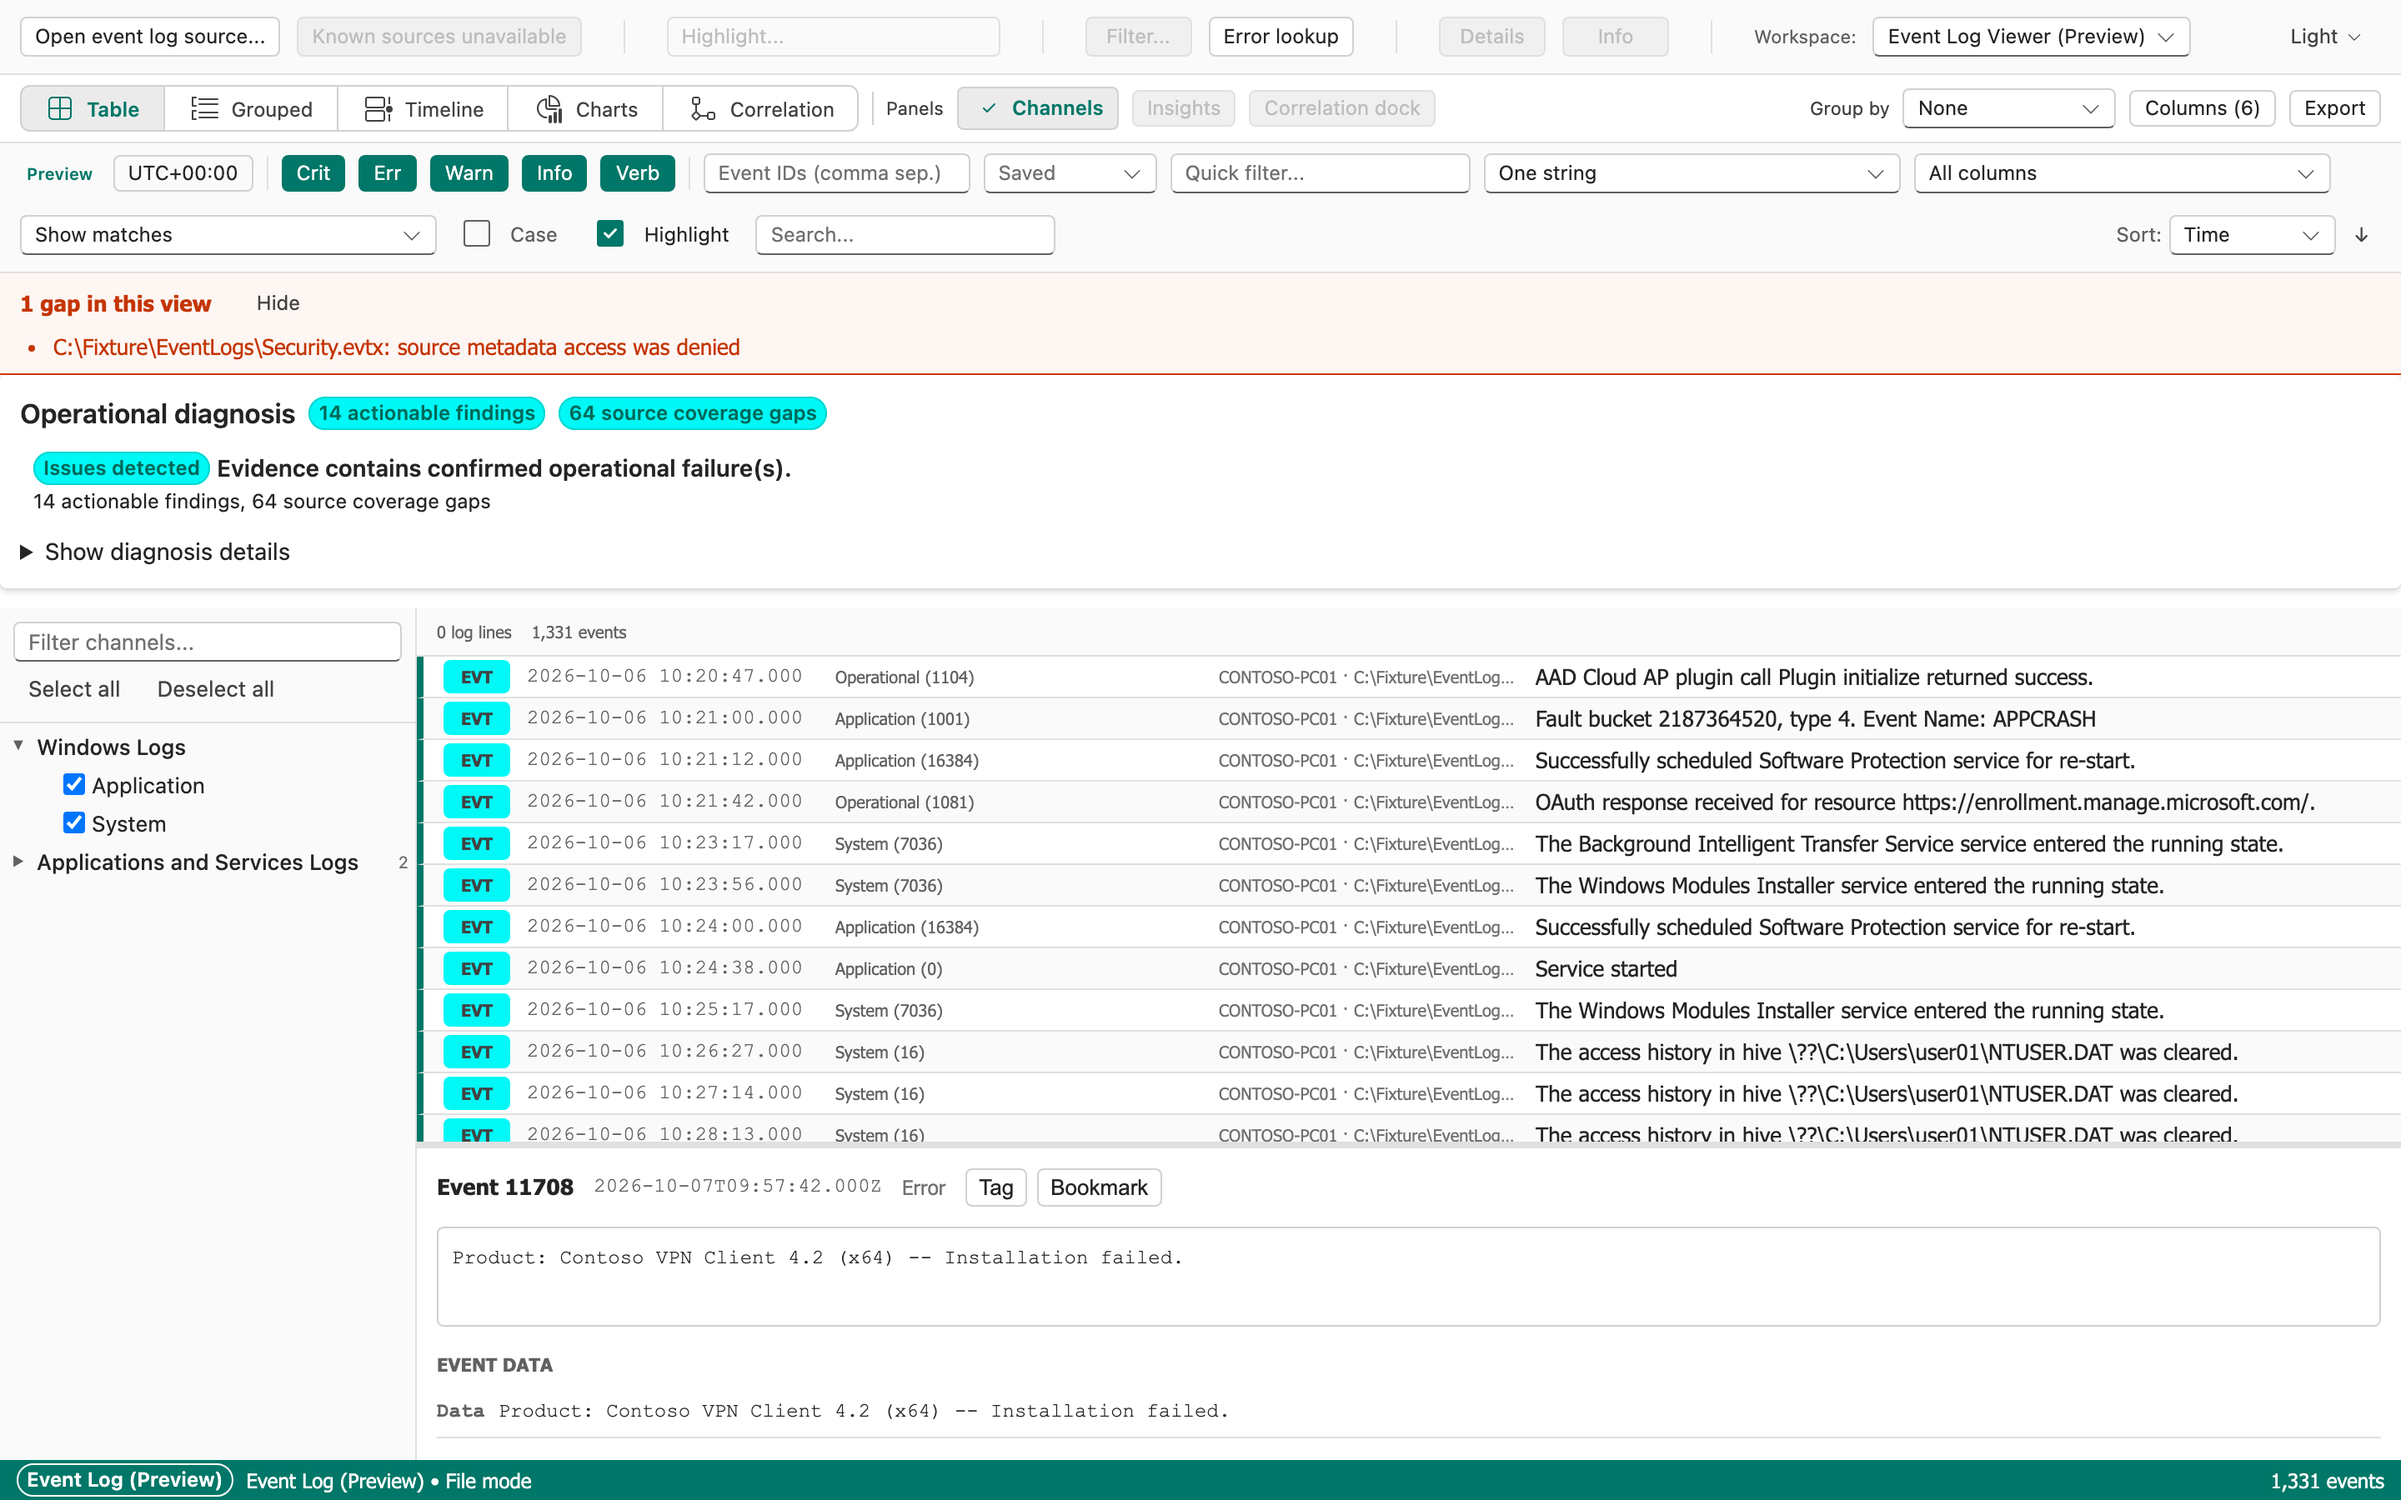
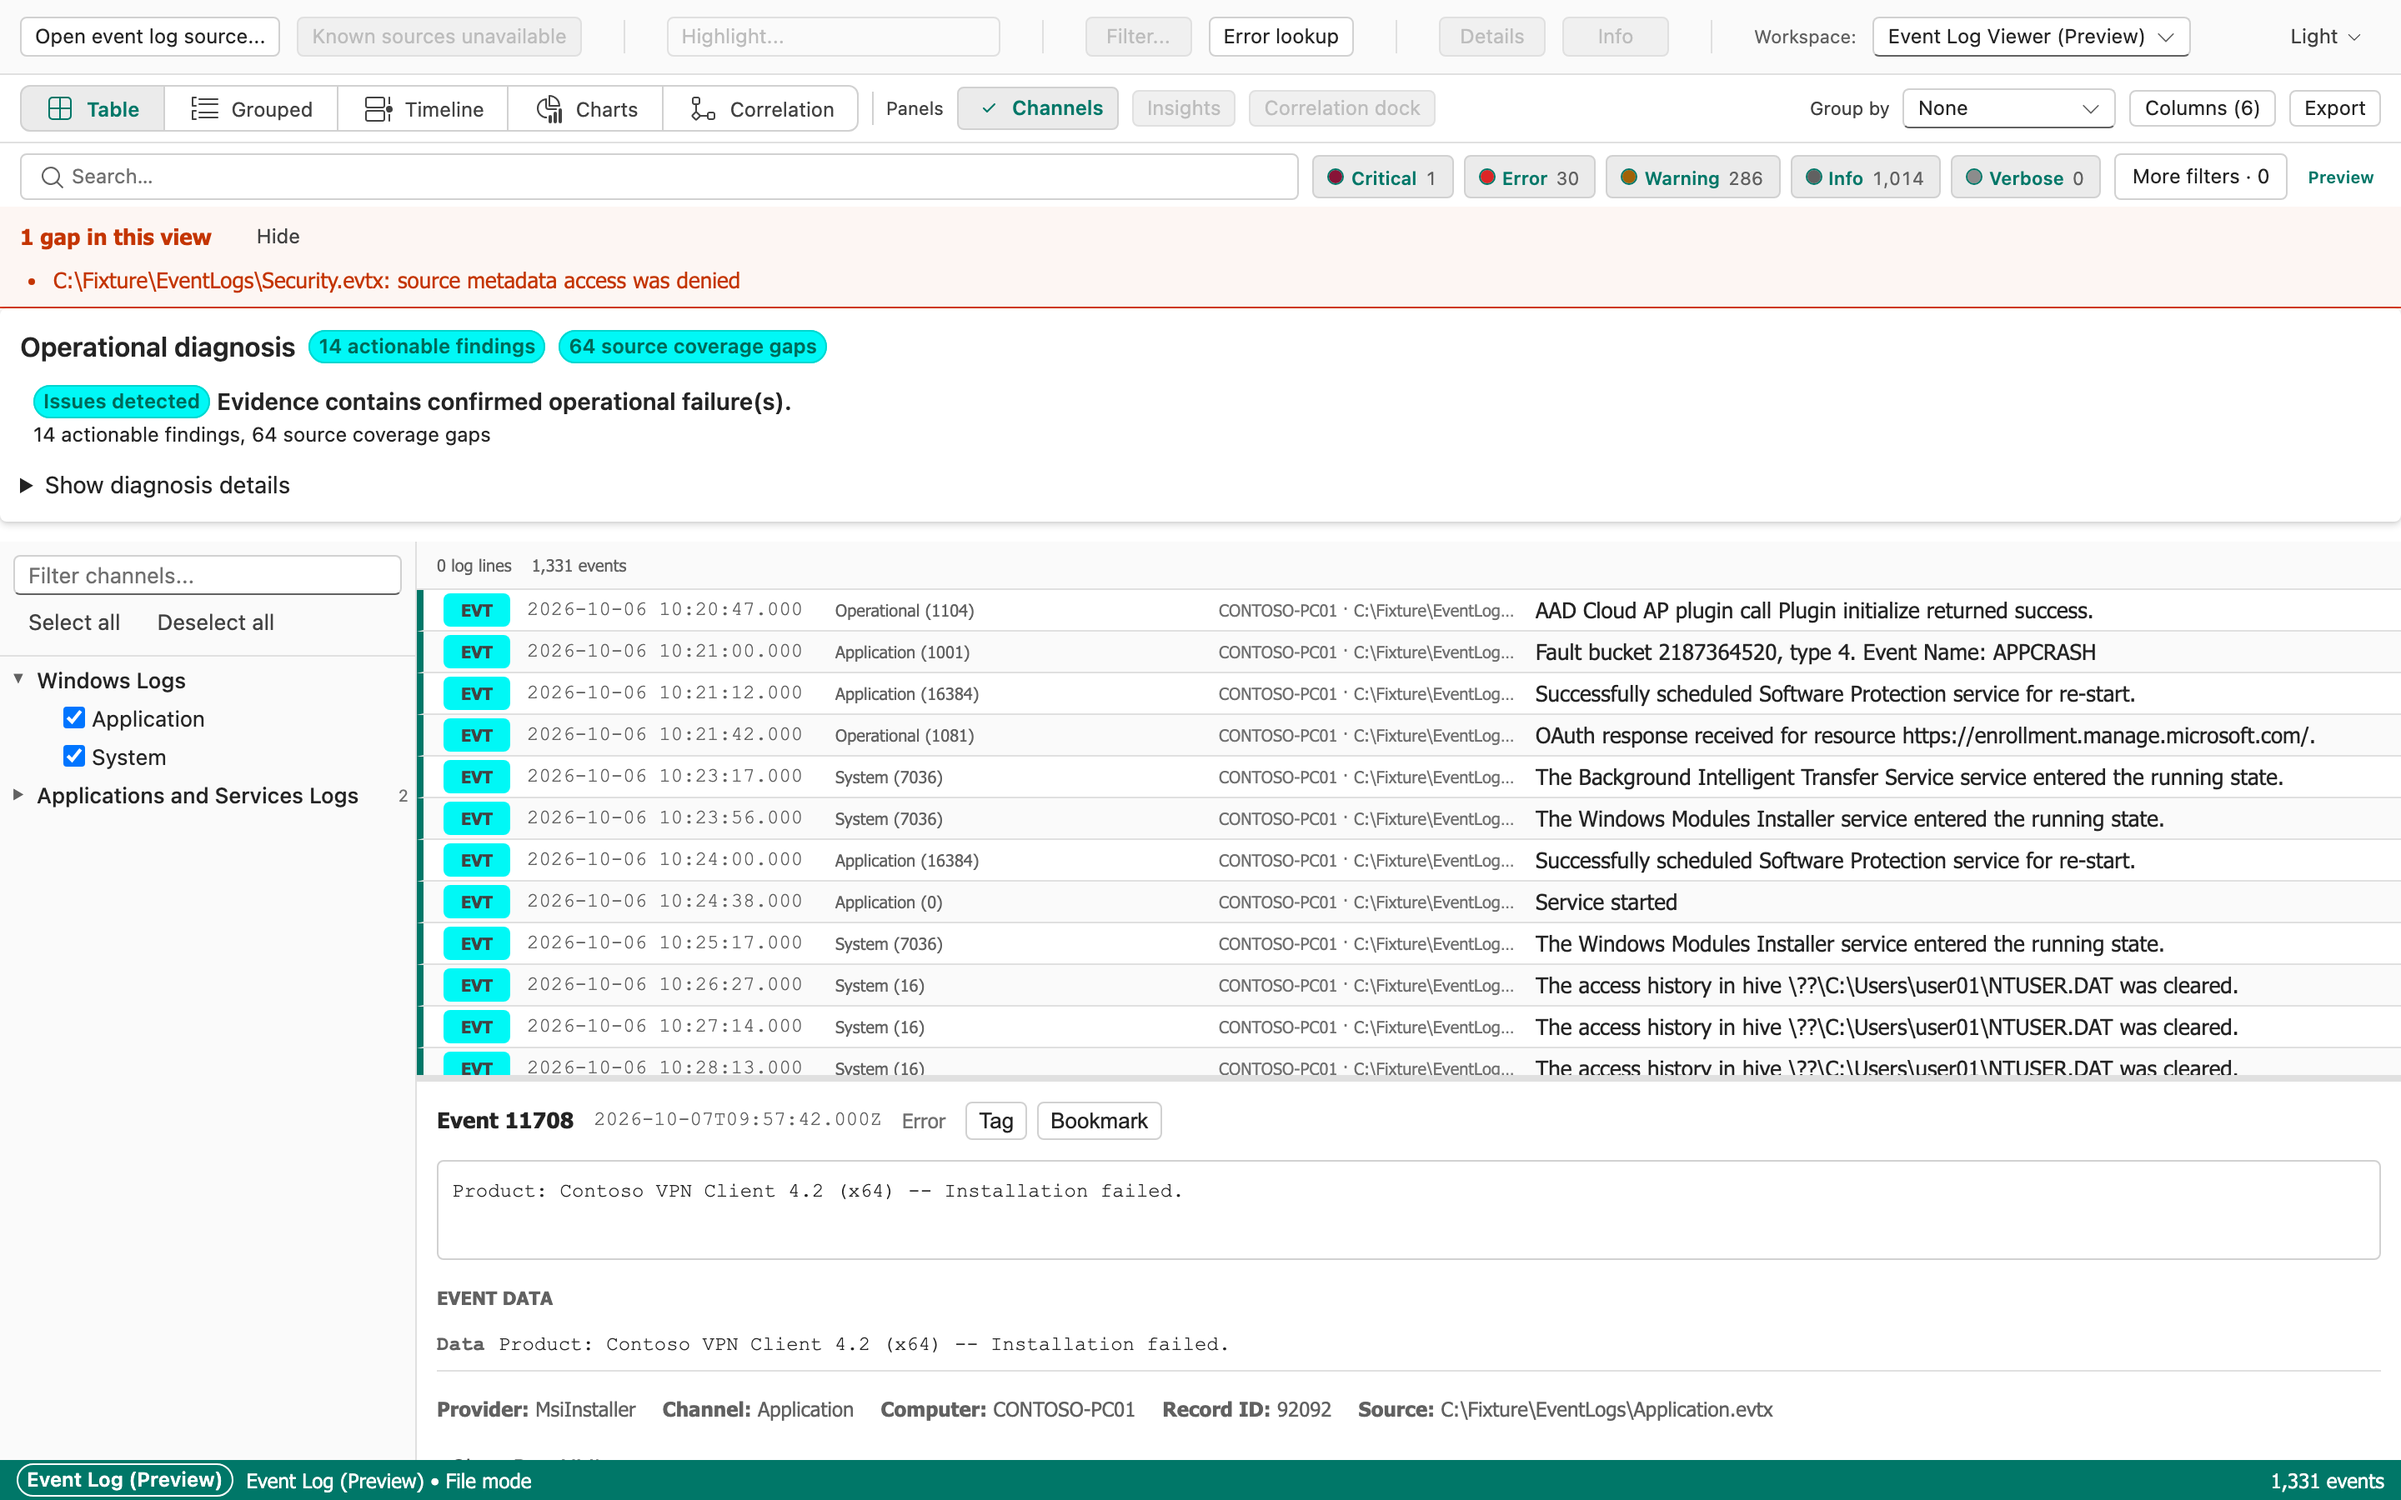
feat(event-log): recapture Event Logs screenshots with the filter row (#832)
Regenerated with `npm run screenshots -- -g event-logs`; the edited sort
step (open More filters, press the sort direction, close) passes. The
step now waits for Escape to hand focus back to the More filters button
and blurs it, so the table capture does not show a keyboard focus ring.
At 1440 wide the filter row measures 38 px, the toggles 26, the search
box and More filters 28, and a chip 22 in a 28 px chip row (spec 5.1:
about 38 and about 26).

diff --git a/e2e/screenshots/event-logs.spec.ts b/e2e/screenshots/event-logs.spec.ts
@@ -235,6 +235,13 @@ test.describe("event-logs screenshots", () => {
     ).toBeVisible();
     await page.keyboard.press("Escape");
     await expect(moreFilters).toHaveCount(0);
+    // Escape returns focus to the More filters button, and after a key press the browser paints
+    // its keyboard focus ring there. Wait for that, then drop it, so no capture shows a ring the
+    // operator did not ask for.
+    const moreFiltersButton = page.getByRole("button", { name: /^More filters/ });
+    await expect(moreFiltersButton).toBeFocused();
+    await moreFiltersButton.evaluate((element) => (element as HTMLElement).blur());
+    await expect(moreFiltersButton).not.toBeFocused();
   });
 
   test("event-logs table", async ({ page }) => {
